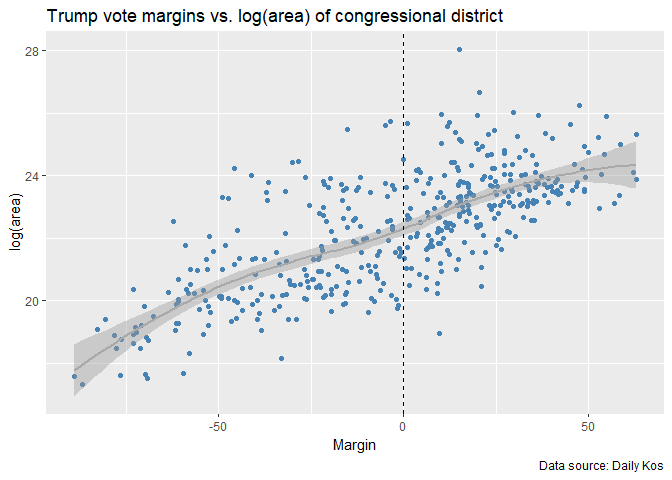
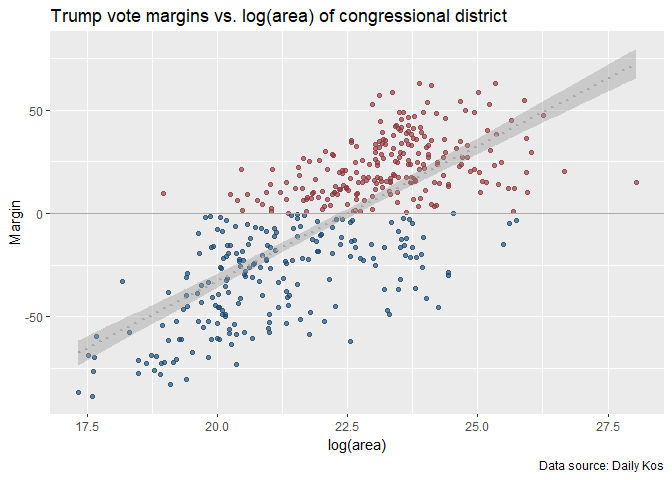
re

diff --git a/README.md b/README.md
@@ -266,9 +266,7 @@ us_house_districts <- sf::st_transform(us_house_districts, laea)
 
 > [Daily Kos data sets](https://www.dailykos.com/stories/2018/2/21/1742660/-The-ultimate-Daily-Kos-Elections-guide-to-all-of-our-data-sets)
 
-Not fantastic structure-wise. Some lawmaker bio details (Name, First elected, Birth Year, Gender, RAce/ethnicity, Religion, LGBT). House sheet: 2016/2012/2008 presidential election results by congressional district; along with 2016/2014 house congressional results; No 2018 results.
-
-Also includes some socio-dems by district, but this is likely more easily addressed using `tidycensus`.
+Some lawmaker bio details (Name, First elected, Birth Year, Gender, RAce/ethnicity, Religion, LGBT). House sheet: 2016/2012/2008 presidential election results by congressional district; along with 2016/2014 house congressional results; No 2018 results.
 
 #### 4.1 Restructuring election data
 
@@ -357,11 +355,14 @@ us_house_districts %>%
               filter(year == '2016') %>%
               spread(candidate, percent) %>%
               mutate(Margin = Trump-Clinton)) %>%
-  mutate(area = as.numeric(gsub(' m^2]', '', sf::st_area(.)))) %>%
-  ggplot(aes(Margin, log(area))) +
-  geom_point(color = 'steelblue') +
-  geom_smooth(method="loess", se=T, color = 'darkgrey')+
-  geom_vline(xintercept = 0, color = 'black', linetype = 2) +
+  mutate(area = as.numeric(gsub(' m^2]', '', sf::st_area(.))),
+         party = ifelse(Margin > 0, 'Trump', 'Clinton')) %>%
+  ggplot(aes(y=Margin, x=log(area), color = party)) +
+  geom_point(alpha = .65) +
+  ggthemes::scale_color_stata()+
+  geom_smooth(method="lm", se=T, color = 'darkgrey', linetype = 3)+
+  geom_hline(yintercept = 0, color = 'darkgrey') +
+  theme(legend.position = "none")+
   labs(title = "Trump vote margins vs. log(area) of congressional district",
        caption = 'Data source: Daily Kos')
 ```
@@ -393,7 +394,7 @@ race_table <- as.data.frame(cbind(code,race),
                             stringsAsFactors=FALSE)
 ```
 
-> Table C15002: *SEX BY EDUCATIONAL ATTAINMENT FOR THE POPULATION 25 YEARS AND OVER*. Data disaggregated by race & ethncity can be accessed via suffixes A-I. The table above crosses suffix to subgroup classification.
+> Table C15002: *Sex by educational attainment for the population 25 years and over*. Data disaggregated by race & ethncity can be accessed via suffixes A-I. The table above crosses suffix to subgroup classification.
 
 ``` r
 search_vars <- var_list[grepl('C1500', var_list$name),]
@@ -510,51 +511,25 @@ tree %>%
 
 #### 5.4 Trump support by educational attainment
 
-Trump ed/race dems by binned degrees of support.
+> Thoughts.
 
 ``` r
-ed_45 <- dailykos_pres_elections %>%
-  filter(candidate == 'Trump') %>%
-  group_by(candidate) %>%
-  mutate(cut = cut_number(percent, n =10),
-         rank_cut = dense_rank(cut)) 
-```
-
-A summary of congressional districts:
-
-``` r
-table(ed_45$cut)
-```
-
-    ## 
-    ##  [4.9,21.4] (21.4,30.5] (30.5,36.6] (36.6,43.1] (43.1,48.7] (48.7,53.1] 
-    ##          44          46          42          42          45          42 
-    ## (53.1,56.2] (56.2,60.9] (60.9,65.6] (65.6,80.4] 
-    ##          44          44          42          44
-
-Describe plot. The average educational attainment profile for each level (ie, bin) of support for 45.
-
-``` r
-ed_45 %>%
-  left_join(tree) %>%
-  mutate(type = paste0(race_cat, ' ', ed_cat)) %>%
-  select(type, rank_cut, cut, estimate) %>%
-  group_by(type, cut, rank_cut) %>%
-  summarize(estimate = sum(estimate)) %>%
-  group_by(cut)%>%
-  mutate(new_per = estimate/sum(estimate)) %>%
+dailykos_pres_elections %>%
+  filter(candidate %in% c('McCain', 'Romney', 'Trump')) %>% 
+  left_join(tree %>% filter(race_cat == 'White' & 
+                              ed_cat == 'Non-College')) %>%
   
-ggplot(aes(x=(rank_cut), y=new_per, fill = type)) +
-  geom_area(alpha = 0.75, color = 'gray') +
-  scale_fill_brewer(palette = 'Paired') +
-  scale_x_continuous(breaks = 1:10, labels = 1:10) + 
+ggplot(aes(x=per, y=percent, fill = candidate, color = candidate)) +
+  geom_point(alpha = .75) +
+  ggthemes::scale_fill_stata()+
+  ggthemes::scale_color_stata()+
+  geom_smooth(method="lm", se=T, color = 'darkgrey', linetype = 3)+
   theme(legend.position = "bottom")+
-  labs(title = "Educational attainment profiles by level of support for 45",
-       subtitle = '2016 Presidential Election')+
-  xlab('Level of support for 45')+ylab(NULL)
+  labs(title = "Proportion White working class vs. presidential vote margin by district",
+       caption = 'Data source: Daily Kos & American Community Survey')
 ```
 
-![](README_files/figure-markdown_github/unnamed-chunk-28-1.png)
+![](README_files/figure-markdown_github/unnamed-chunk-26-1.png)
 
 ------------------------------------------------------------------------
 
@@ -643,7 +618,7 @@ dailykos_tile$outer %>%
        caption = 'Data sources: Daily Kos & VoteView')
 ```
 
-![](README_files/figure-markdown_github/unnamed-chunk-34-1.png)
+![](README_files/figure-markdown_github/unnamed-chunk-32-1.png)
 
 #### 6.3 Hexmap of Congressional districs
 
@@ -706,7 +681,7 @@ dailykos_pres_flips %>%
        caption = 'Data source: Daily Kos')
 ```
 
-![](README_files/figure-markdown_github/unnamed-chunk-38-1.png)
+![](README_files/figure-markdown_github/unnamed-chunk-36-1.png)
 
 Note that this has been reproduced.
 
@@ -738,7 +713,7 @@ dailykos_shapes$cds %>%
        caption = 'Data source: Daily Kos')
 ```
 
-![](README_files/figure-markdown_github/unnamed-chunk-39-1.png)
+![](README_files/figure-markdown_github/unnamed-chunk-37-1.png)
 
 #### 6.4 Another perspective
 
@@ -795,7 +770,7 @@ plot_ly(
       font = list(size = 10))
 ```
 
-![](README_files/figure-markdown_github/unnamed-chunk-41-1.png)
+![](README_files/figure-markdown_github/unnamed-chunk-39-1.png)
 
 ------------------------------------------------------------------------
 
